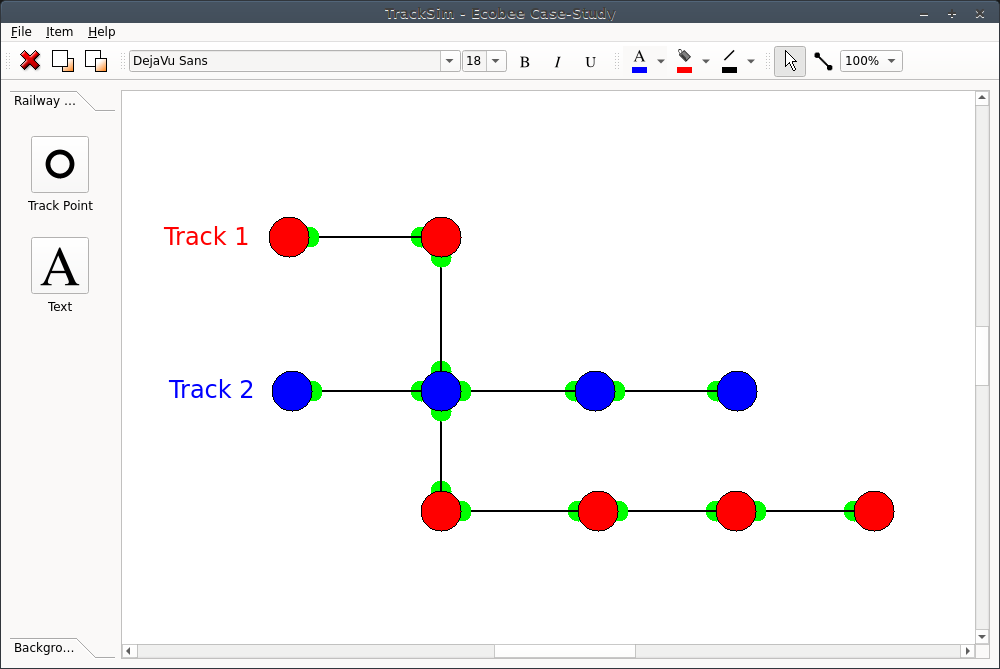
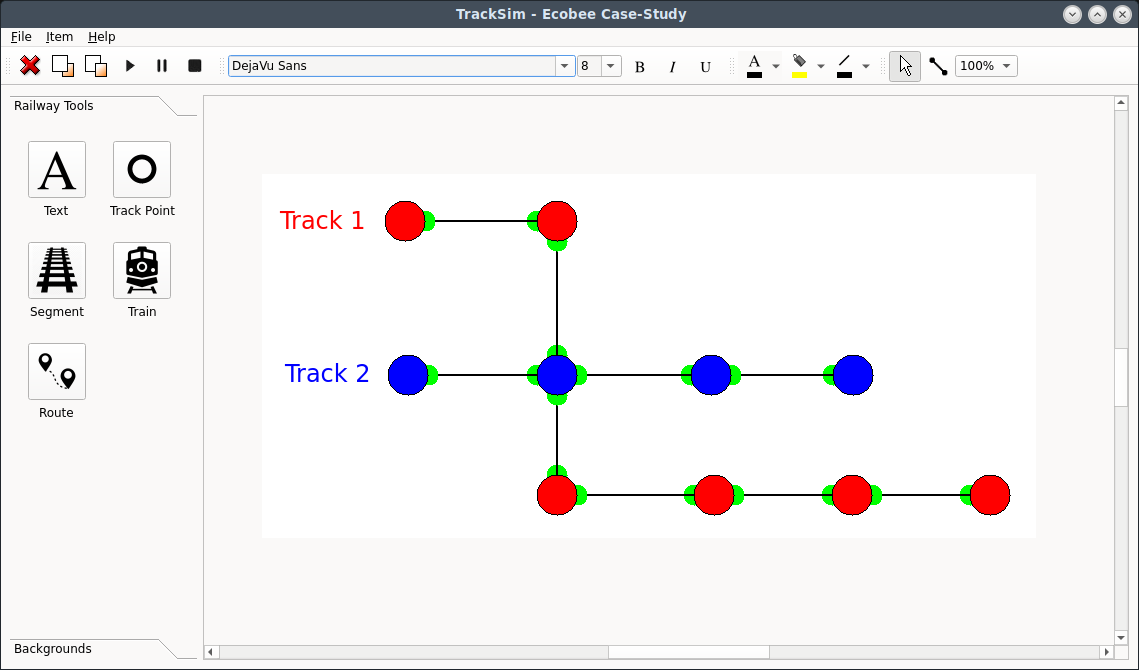
add more buttons

diff --git a/mainwindow.cpp b/mainwindow.cpp
@@ -398,9 +398,9 @@ void MainWindow::createToolBox()
     connect(buttonGroup, QOverload<QAbstractButton *>::of(&QButtonGroup::buttonClicked),
             this, &MainWindow::buttonGroupClicked);
     QGridLayout *layout = new QGridLayout;
-   layout->addWidget(createCellWidget(tr("Conditional"), DiagramItem::Conditional), 1, 1);
-   layout->addWidget(createCellWidget(tr("Process"), DiagramItem::Step),2, 0);
-   layout->addWidget(createCellWidget(tr("Input/Output"), DiagramItem::Io), 1, 0);
+//    layout->addWidget(createCellWidget(tr("Conditional"), DiagramItem::Conditional), 1, 1);
+//    layout->addWidget(createCellWidget(tr("Process"), DiagramItem::Step),2, 0);
+//    layout->addWidget(createCellWidget(tr("Input/Output"), DiagramItem::Io), 1, 0);
     layout->addWidget(createCellWidget(tr("Track Point"), DiagramItem::TrackPoint), 0, 1);
 //! [21]
 
@@ -415,6 +415,45 @@ void MainWindow::createToolBox()
     QWidget *textWidget = new QWidget;
     textWidget->setLayout(textLayout);
     layout->addWidget(textWidget, 0, 0);
+
+    //------------ Segment Widget -------------
+    QToolButton *segmentButton = new QToolButton;
+    segmentButton->setCheckable(true);
+    buttonGroup->addButton(segmentButton, InsertTextButton);
+    segmentButton->setIcon(QIcon(QPixmap(":/images/segment.png")));
+    segmentButton->setIconSize(QSize(50, 50));
+    QGridLayout *segmentLayout = new QGridLayout;
+    segmentLayout->addWidget(segmentButton, 0, 0, Qt::AlignHCenter);
+    segmentLayout->addWidget(new QLabel(tr("Segment")), 1, 0, Qt::AlignCenter);
+    QWidget *segmentWiget = new QWidget;
+    segmentWiget->setLayout(segmentLayout);
+    layout->addWidget(segmentWiget, 1, 0);
+
+    //------------ Train Widget -------------
+    QToolButton *trainButton = new QToolButton;
+    trainButton->setCheckable(true);
+    buttonGroup->addButton(trainButton, InsertTextButton);
+    trainButton->setIcon(QIcon(QPixmap(":/images/train.png")));
+    trainButton->setIconSize(QSize(50, 50));
+    QGridLayout *trainLayout = new QGridLayout;
+    trainLayout->addWidget(trainButton, 0, 0, Qt::AlignHCenter);
+    trainLayout->addWidget(new QLabel(tr("Train")), 1, 0, Qt::AlignCenter);
+    QWidget *trainWiget = new QWidget;
+    trainWiget->setLayout(trainLayout);
+    layout->addWidget(trainWiget, 1, 1);
+
+    //------------ Route Widget -------------
+    QToolButton *routeButton = new QToolButton;
+    routeButton->setCheckable(true);
+    buttonGroup->addButton(routeButton, InsertTextButton);
+    routeButton->setIcon(QIcon(QPixmap(":/images/route.png")));
+    routeButton->setIconSize(QSize(50, 50));
+    QGridLayout *routeLayout = new QGridLayout;
+    routeLayout->addWidget(routeButton, 0, 0, Qt::AlignHCenter);
+    routeLayout->addWidget(new QLabel(tr("Route")), 1, 0, Qt::AlignCenter);
+    QWidget *routeWiget = new QWidget;
+    routeWiget->setLayout(routeLayout);
+    layout->addWidget(routeWiget, 2, 0);
 
     layout->setRowStretch(3, 10);
     layout->setColumnStretch(2, 10);
